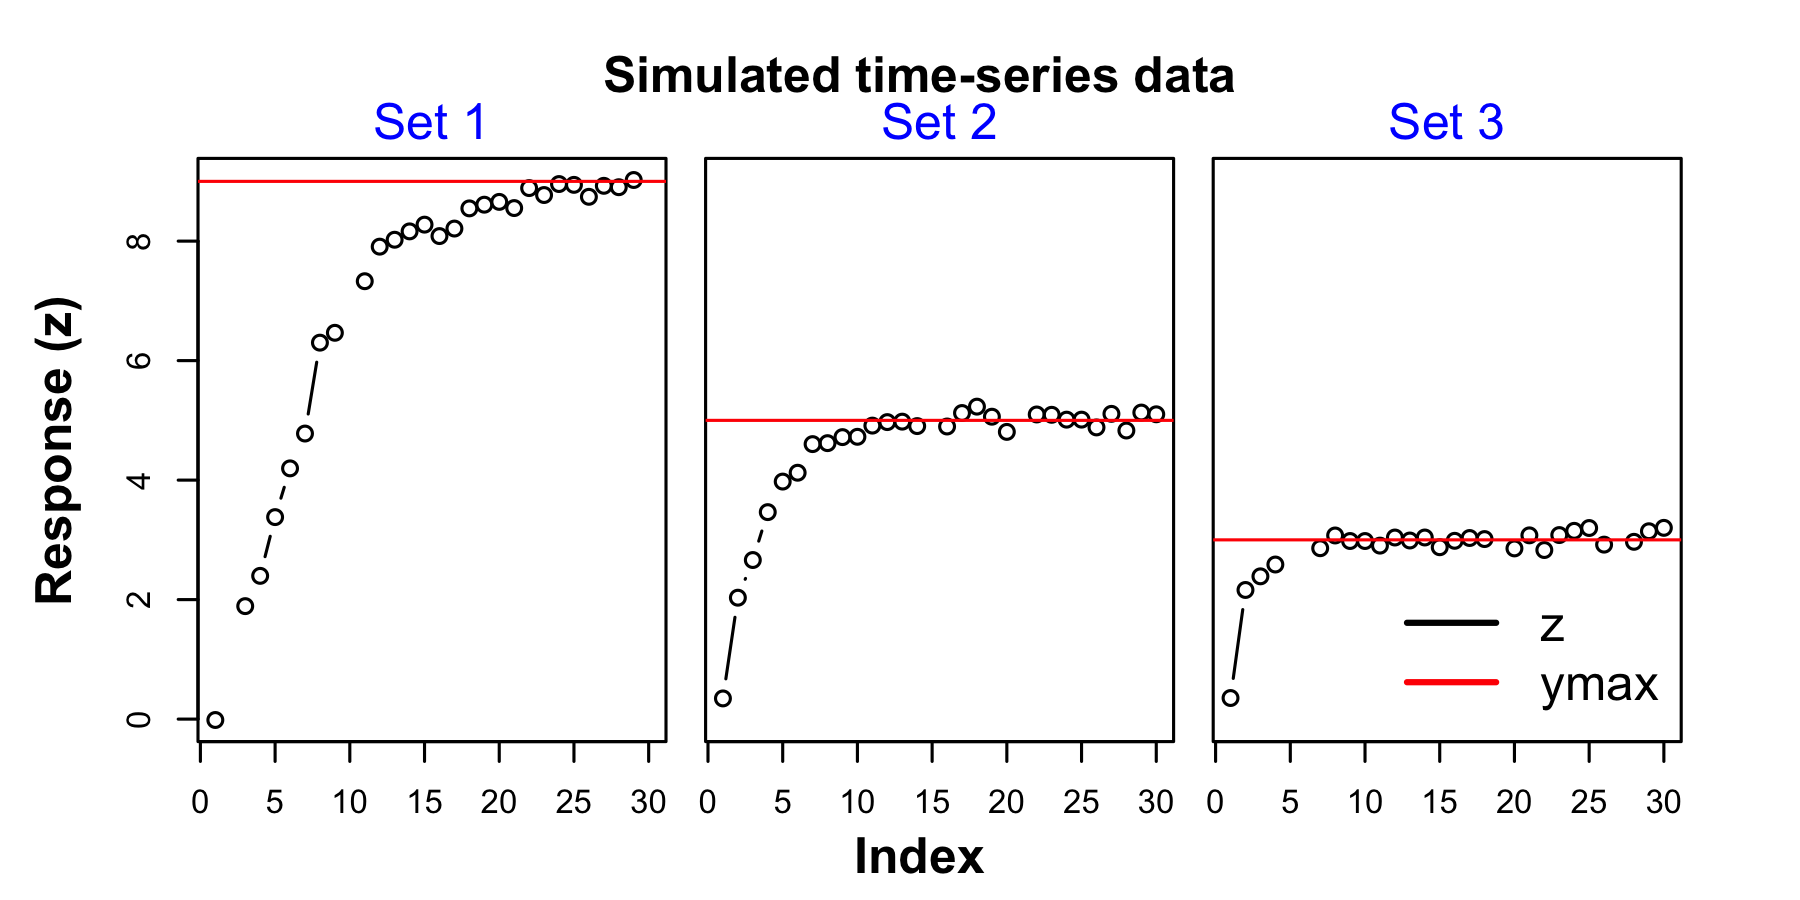
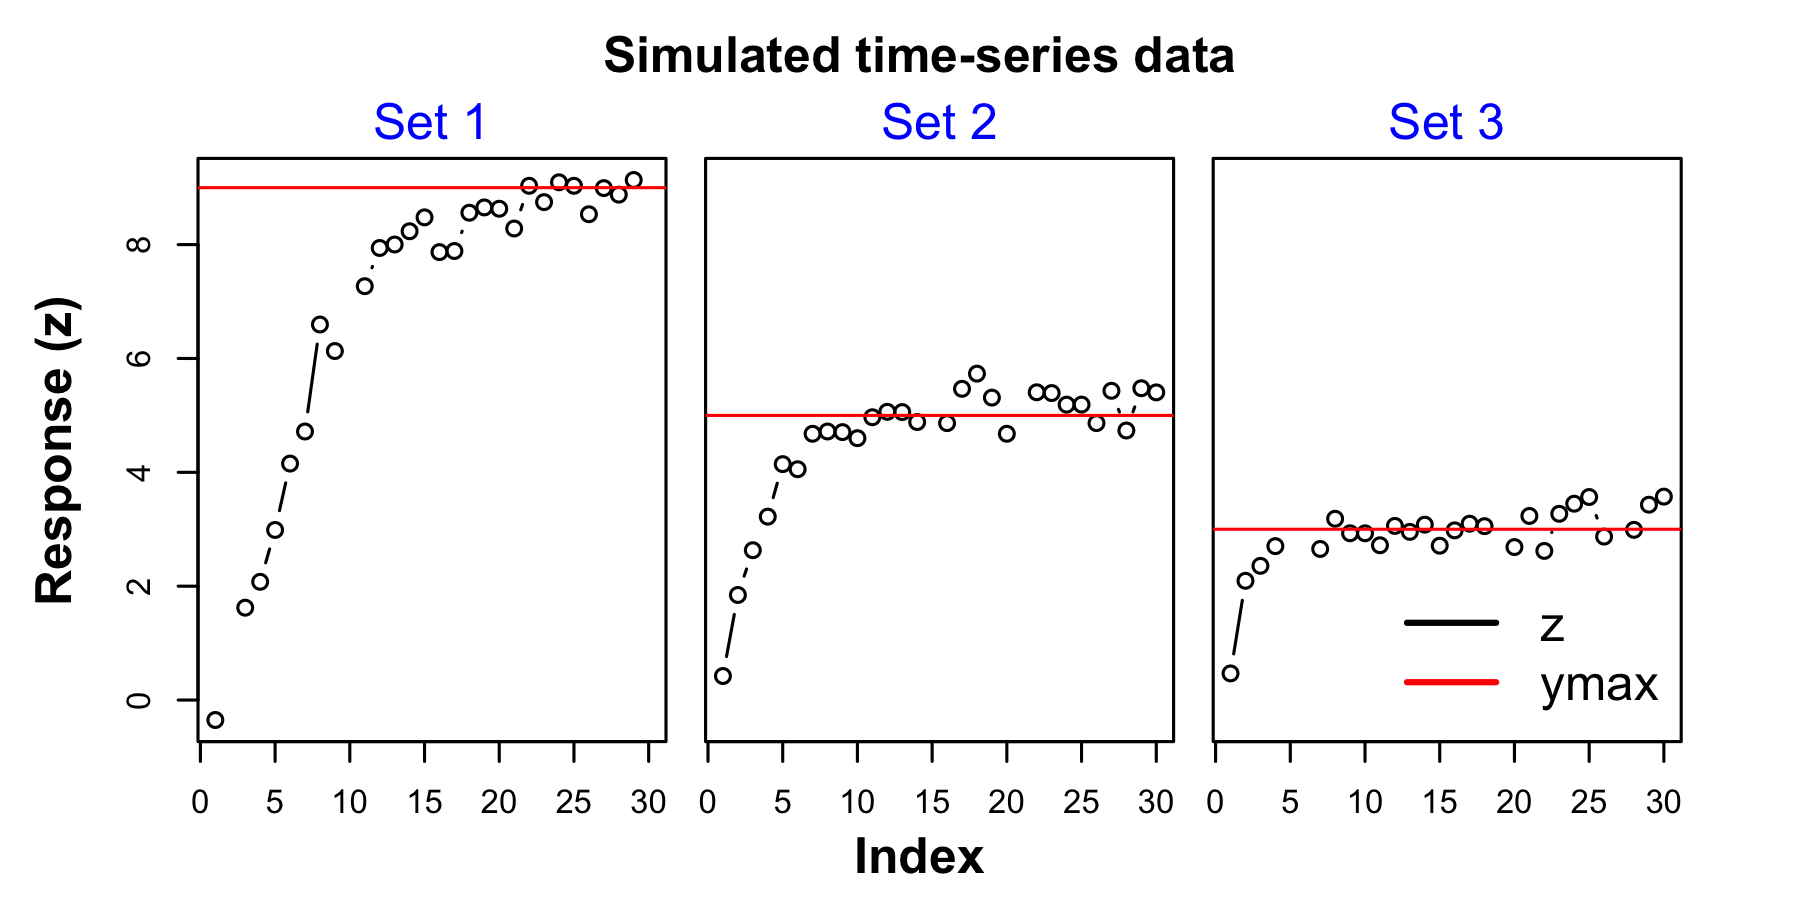
fix error bars

diff --git a/README.md b/README.md
@@ -35,11 +35,12 @@ set.seed(2)
 ssSim <- phenoSim(nSites = 3, #number of sites
                   nTSet = 30, #number of time steps
                   beta = c(1, 2), #beta coefficients
-                  sig = 0.01, #process error
-                  tau = 0.1, #observation error
+                  sig = 0.05, #process error
+                  tau = 0.25, #observation error
                   plotFlag = F, #whether plot the data or not
                   miss = 0.1, #portion of missing data
-                  ymax = c(9,5, 3) #maximum of saturation trajectory)
+                  ymax = c(9,5, 3) #maximum of saturation trajectory
+)
 
 
 ```
@@ -128,21 +129,24 @@ dev.off()
 Comparing the model fitted parameters agaist true values:
 ```{r, echo=TRUE}
 
-yGibbs <- t(apply(ssOut$rawsamples$y, 1:2, mean))
+
+yGibbs <- ssOut$latentGibbs
+zGibbs <- ssOut$zpred
 o <- ssOut$data$z
 p <- apply(ssOut$rawsamples$y, 1, mean)
 R2 <- cor(na.omit(cbind(o, p)))[1,2]^2
 
-
 png('fig3.png', width = 5, height = 5, units = 'in', res = 300)
 par( mar=c(4,4,1,1), font.axis=2)
-
-plotPOGibbs(o = o , p = yGibbs, xlim = c(0,10), ylim=c(0,10), cex = .7)
+plotPOGibbs(o = o , p = zGibbs,
+            xlim = c(0,10), ylim=c(0,10),
+            cex = .7, nburnin = 1000)
+points(o, p, pch = 3)
 mtext(paste0('R² = ', signif(R2, 3)), line = -1, cex = 2, font = 2, side = 1, adj = .9)
-legend('topleft', legend = c('predictions', '95th percentile', '1:1 line'),
-       col = c('#fb8072','#80b1d3','black'),bty = 'n', cex=1.5,
-       lty = c(NA, 1, 2), lwd =c(NA, 2, 2), pch = c(16, NA, NA))
-
+legend('topleft', legend = c('mean', '95th percentile', '1:1 line', 'latent states'),
+       col = c('#fb8072','#80b1d3','black', 'black'),
+       bty = 'n', cex=1.5,
+       lty = c(NA, 1, 2, NA), lwd =c(NA, 2, 2, 2), pch = c(16, NA, NA, 3))
 dev.off()
 
 
